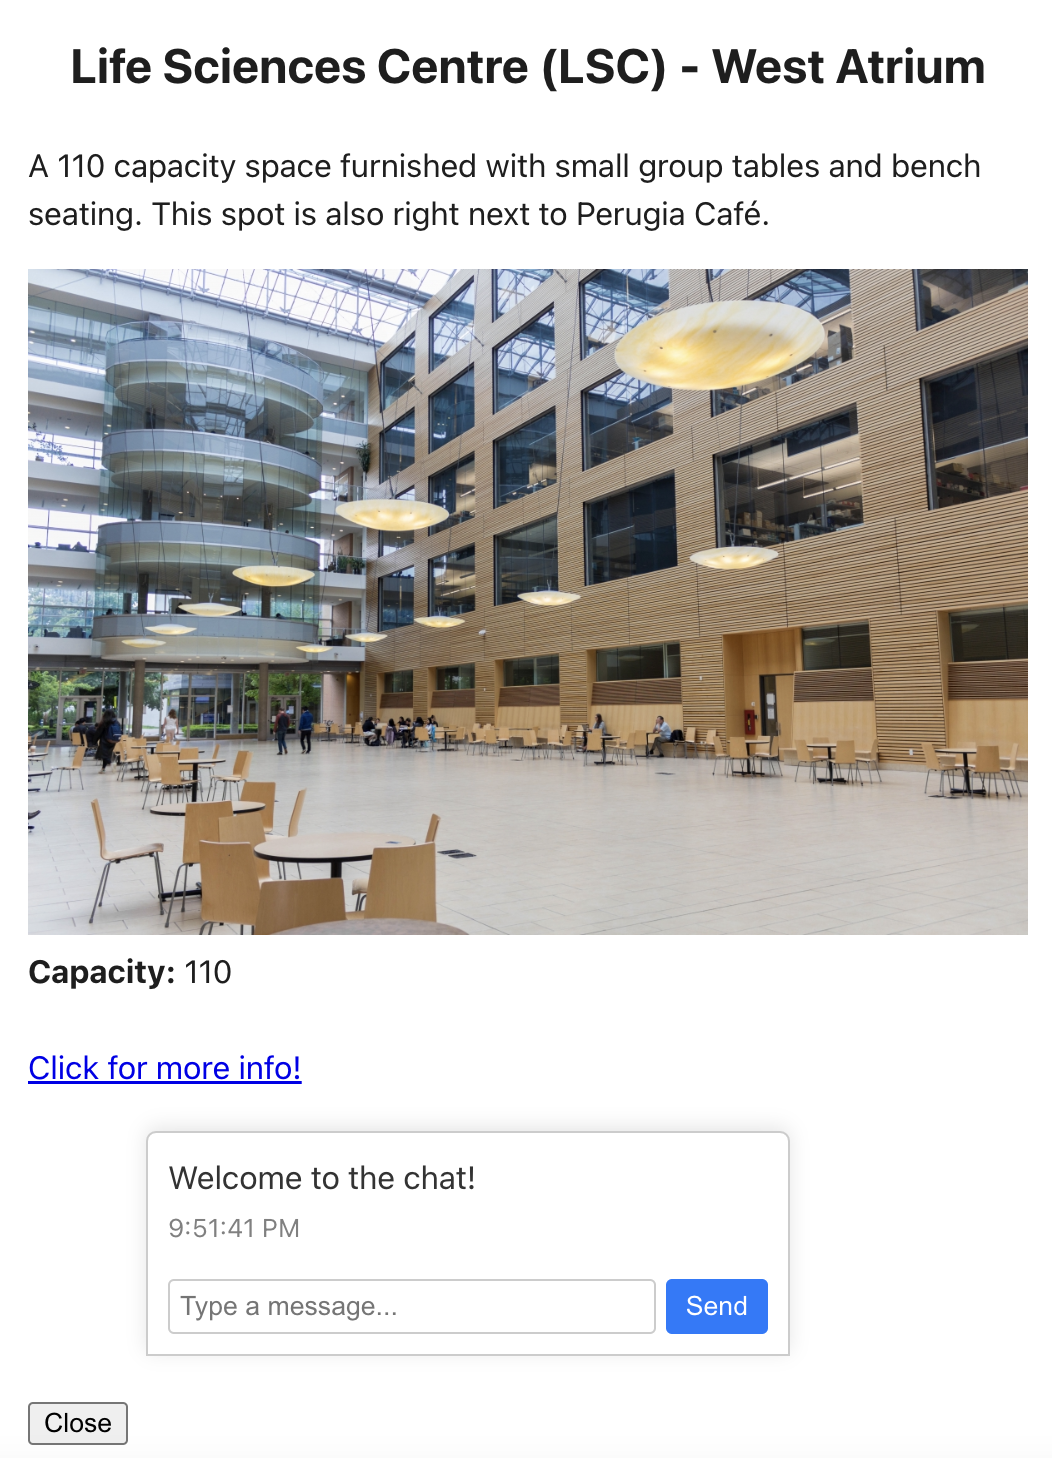
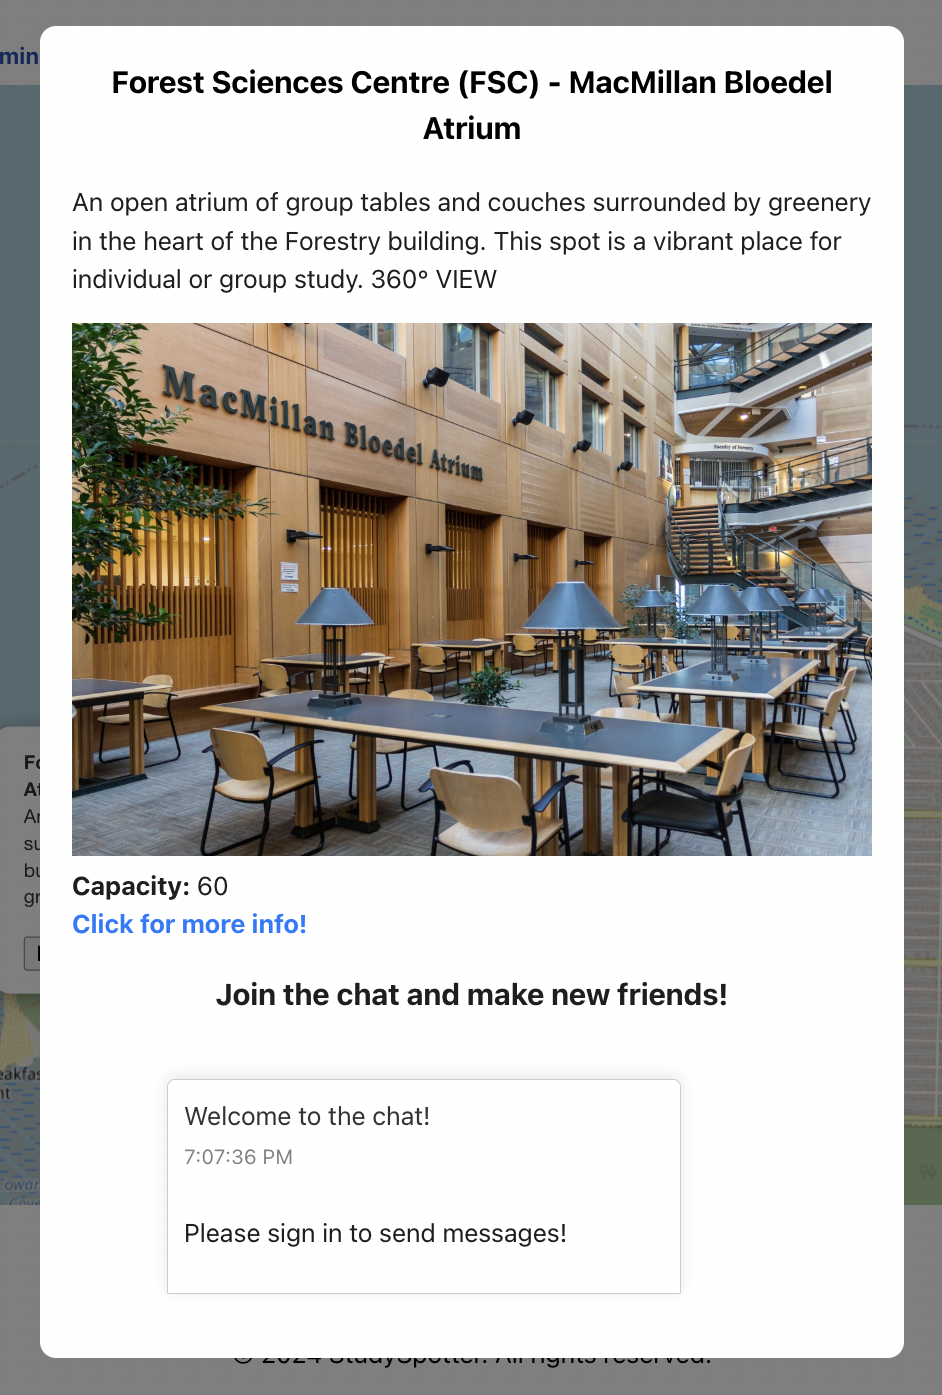
styling + code cleanup

diff --git a/client/src/components/MapInterface.jsx b/client/src/components/MapInterface.jsx
@@ -1,87 +1,3 @@
-// import React, { useState } from 'react';
-// import { MapContainer, TileLayer, Marker, Popup } from 'react-leaflet';
-// import { FaStar, FaRegStar } from 'react-icons/fa';
-// import 'leaflet/dist/leaflet.css';
-// import pins from '../assets/pinData.json';
-// import ChatBox from './Chatbox.jsx';
-// import '../assets/leaflet.fullscreen-3.0.2/Control.FullScreen.css';
-// import '../assets/leaflet.fullscreen-3.0.2/Control.FullScreen.js';
-
-// const MapInterface = () => {
-//     const [detailsVisible, setDetailsVisible] = useState(false);
-//     const [selectedPin, setSelectedPin] = useState(null);
-//     const [favorites, setFavorites] = useState([]);
-//     const [mapCenter] = useState([49.2606, -123.2460]); // Default center
-//     const [mapZoom] = useState(14); // Default zoom
-
-//     const handleMoreDetails = (pin) => {
-//         setSelectedPin(pin);
-//         setDetailsVisible(true);
-//     };
-
-//     const handleCloseDetails = () => {
-//         setDetailsVisible(false);
-//         setSelectedPin(null);
-//     };
-
-//     const toggleFavorite = (pinId) => {
-//         setFavorites(prevFavorites => {
-//             if (prevFavorites.includes(pinId)) {
-//                 return prevFavorites.filter(id => id !== pinId);
-//             } else {
-//                 return [...prevFavorites, pinId];
-//             }
-//         });
-//     };
-
-//     return (
-//         <div className="map-interface">
-//             <div className="map-container">
-//                 <MapContainer
-//                     center={mapCenter}
-//                     zoom={mapZoom}
-//                     style={{ height: "700px", width: "100%" }}
-//                     fullscreenControl={true}
-//                     fullscreenControlOptions={{ position: 'topleft' }}
-//                 >
-//                     <TileLayer
-//                         url="https://{s}.tile.openstreetmap.org/{z}/{x}/{y}.png"
-//                         maxZoom={19}
-//                     />
-//                     {pins.map(pin => (
-//                         <Marker key={pin.id} position={pin.position}>
-//                             <Popup>
-//                                 <div className="popup-content">
-//                                     <b>{pin.title}</b><br />{pin.description}
-//                                     <br></br>
-//                                     <br></br>
-//                                     <button onClick={() => handleMoreDetails(pin)}>More Details</button>
-//                                     {/* <ChatBox /> */}
-//                                     <div className="favorite" onClick={() => toggleFavorite(pin.id)}>
-//                                         {favorites.includes(pin.id) ? <FaStar /> : <FaRegStar />}
-//                                     </div>
-//                                 </div>
-//                             </Popup>
-//                         </Marker>
-//                     ))}
-//                 </MapContainer>
-//             </div>
-//             {detailsVisible && selectedPin && (
-//                 <div className="overlay" onClick={handleCloseDetails}>
-//                     <div className="details-panel" onClick={(e) => e.stopPropagation()}>
-//                         <h2>{selectedPin.title}</h2>
-//                         <p>{selectedPin.description}</p>
-//                         <ChatBox />
-//                         <button onClick={handleCloseDetails}>Close</button>
-//                     </div>
-//                 </div>
-//             )}
-//         </div>
-//     );
-// };
-
-// export default MapInterface;
-
 import React, { useLayoutEffect, useState, useEffect } from "react";
 import {
   MapContainer,
@@ -91,17 +7,11 @@ import {
   Polyline,
   Tooltip,
 } from "react-leaflet";
-import { FaStar, FaRegStar } from "react-icons/fa";
-
-//import 'leaflet/dist/leaflet.css';
-// import pins from '../assets/pinData.json';
 import pins from "../assets/updated-waypoints.json";
-// import ChatBox from './Chatbox.jsx';
 import DetailsPanel from "./DetailsPanel.jsx";
 import DistanceDisplay from "./DistanceDisplay.jsx";
 import { styles } from './DistanceDisplay';
-//import '../assets/leaflet.fullscreen-3.0.2/Control.FullScreen.css';
-//import '../assets/leaflet.fullscreen-3.0.2/Control.FullScreen.js';
+
 
 const MapInterface = () => {
   const [detailsVisible, setDetailsVisible] = useState(false);
@@ -162,16 +72,6 @@ const MapInterface = () => {
     setDistance(null);
     setWalkingTime(null);
   };
-
-  // const toggleFavorite = (pinId) => {
-  //     setFavorites(prevFavorites => {
-  //         if (prevFavorites.includes(pinId)) {
-  //             return prevFavorites.filter(id => id !== pinId);
-  //         } else {
-  //             return [...prevFavorites, pinId];
-  //         }
-  //     });
-  // };
 
   // Filter pins based on search term
   const filteredPins = pins.filter((pin) =>

diff --git a/client/src/pages/About.jsx b/client/src/pages/About.jsx
@@ -1,31 +1,3 @@
-// import React from 'react';
-// import main from '../assets/main.png';
-
-// const About = () => {
-//     return (
-//         <div>
-//             <h1>About UBC StudySpotter</h1>
-//             {/* Add information about the app and how to use it */}
-//             <div className="about">
-//             <p> Welcome to StudySpotter! UBC's hottest study spot finder. StudySpotter is an app that facilitates
-//                 the location and reservation of study spots on campus. Users will be able to view a map, check out amenities, 
-//                 and reserve spaces that will fit their needs.
-
-//                 To get started, select any waypoint on the map. This will tell you basic information about that point.
-//                 Upon selection, a pop-up will appear and display all amenities available at that location along with
-//                 the option to book private rooms via a link.
-//             </p>
-//             </div>
-//             <div className="panel">
-//                 <img src={main} alt="main" style={{ width: '100%', height: 'auto' }} />
-//             </div>
-//             <div className="panel">
-//             </div>
-//         </div>
-//     );
-// };
-
-// export default About;
 import React, { useEffect, useRef } from 'react';
 import main from '../assets/main.png';
 import waypoint from '../assets/waypoint.png';
@@ -64,16 +36,6 @@ const About = () => {
     return (
         <div>
             <h1>About UBC StudySpotter</h1>
-            {/* <div className="about">
-                <p> Welcome to StudySpotter! UBC's hottest study spot finder. StudySpotter is an app that facilitates
-                    the location and reservation of study spots on campus. Users will be able to view a map, check out amenities, 
-                    and reserve spaces that will fit their needs.
-
-                    To get started, select any waypoint on the map. This will tell you basic information about that point.
-                    Upon selection, a pop-up will appear and display all amenities available at that location along with
-                    the option to book private rooms via a link.
-                </p>
-            </div> */}
             <div className="panel" ref={el => panelRefs.current[0] = el}>
                 <h3 className="about-page-text">What is UBC StudySpotter?</h3>  
                 <br></br>

diff --git a/client/src/App.css b/client/src/App.css
@@ -18,6 +18,10 @@
   float: right;
 }
 
+h1 {
+  text-shadow: 1px 1px 1px rgba(0, 0, 0, 0.5);
+}
+
 body {
   background-color: var(--background-light);
   box-sizing: border-box;
@@ -51,7 +55,7 @@ body.dark-mode {
 
 header {
   background-color: var(--header-background-light);
-  height: 20px;
+  height: 25px;
   padding: 20px;
 }
 
@@ -229,13 +233,19 @@ footer {
   height: 10px;
 }
 
+.logo-container {
+  display: flex;
+  justify-content: center; 
+  align-items: center; 
+}
+
 .dark-mode .ubc-logo {
-  margin-left: 400px;
+  margin: auto;
   filter: invert(1);
 }
 
 .ubc-logo {
-  margin-left: 400px;
+  margin: auto;
 }
 
 .content {
@@ -297,19 +307,12 @@ footer {
   margin-top: 0;
 }
 
-/* .favorite {
-  cursor: pointer;
-  margin-top: 10px;
-  color: gold;
-  font-size: 20px;
-  float: right;
-} */
-
 .profile-container {
   max-width: 400px;
   margin: 50px auto;
   padding: 20px;
-  background-color: #f9f9f9;
+  /* background-color: #f9f9f9; */
+  background-color: #002145;
   border-radius: 8px;
   box-shadow: 0 4px 8px rgba(0, 0, 0, 0.1);
   text-align: center;
@@ -317,9 +320,10 @@ footer {
 
 .profile-header {
   font-size: 1.5rem;
-  color: #333;
+  color: #40B4E5;
   text-align: center;
   margin-bottom: 20px;
+  text-shadow: 1px 1px 1px rgba(0, 0, 0, 0.5);
 }
 
 .input-group {
@@ -461,7 +465,8 @@ h3 {
 
 .about-page-text {
   float: inline-start;
-  color: #FF4500;
+  color: #40B4E5;
+  text-shadow: 1px 1px 1px rgba(0, 0, 0, 0.5);
 }
 
 .panel {

diff --git a/server/app.js b/server/app.js
@@ -1,39 +1,3 @@
-// var express = require('express');
-// var path = require('path');
-// var cookieParser = require('cookie-parser');
-// var logger = require('morgan');
-
-// var indexRouter = require('./routes/index');
-// var chatRouter = require('./routes/chatserver');
-// var usersRouter = require('./routes/users');
-
-// var app = express();
-
-// app.use(logger('dev'));
-// app.use(express.json());
-// app.use(express.urlencoded({ extended: false }));
-// app.use(cookieParser());
-// // app.use(express.static(path.join(__dirname, 'public')));
-// app.use(express.static(path.join(__dirname, 'client/dist')));
-
-
-// app.use('/', indexRouter);
-// app.use('/chat', chatRouter);
-// app.use('/users', usersRouter);
-
-// app.get('*', (req, res) => {
-//     res.sendFile(path.join(__dirname, 'client/dist', 'index.html'));
-// });
-
-// // Set the port number
-// var port = process.env.PORT || 3000;
-
-// // Start the server
-// app.listen(port, function() {
-//     console.log(`Server is running on port ${port}`);
-// });
-
-// module.exports = app;
 var express = require('express');
 var path = require('path');
 var cookieParser = require('cookie-parser');

diff --git a/client/src/App.jsx b/client/src/App.jsx
@@ -74,14 +74,15 @@ const App = () => {
             <Router>
                 <header className='title'>
 
-                    {/* <h1 className="typewriter">UBC StudySpotter</h1> */}
+                    <div className="logo-container">
                     <img className="ubc-logo" src={logo} alt="studyspotter" style={{ width: '400px', height: 'auto' }} />
-                    <button className="mode-toggle" onClick={toggleDarkMode}>
-                        {darkMode ? <FiSun /> : <FiMoon />}
-                    </button>
+                    </div>
                 </header>
                 <header className="App-header">
                     <RxHamburgerMenu className='burger' onClick={() => setDisplayNav(!displayNav)} />
+                    <button className="mode-toggle" onClick={toggleDarkMode}>
+                        {darkMode ? <FiSun /> : <FiMoon />}
+                    </button>
                 </header>
                 <NavBar display={displayNav} />
                 <div className={`content ${displayNav ? 'shifted' : ''}`}>

diff --git a/client/src/pages/Profile.jsx b/client/src/pages/Profile.jsx
@@ -3,6 +3,7 @@ import { useSelector } from 'react-redux';
 import '../App.css';
 import GoogleAuth from "../components/GoogleAuth.jsx";
 import ProfileComponent from "../components/ProfileComponent.jsx";
+import ubc from '../assets/ubc-official-logo.png';
 
 const Profile = () => {
   const session = useSelector((state) => state.session.sessionID);
@@ -12,6 +13,8 @@ const Profile = () => {
         <h1>Welcome to UBC StudySpotter!</h1>
         <div className="profile-container">
           {!session && <h3 className="profile-header">Login with your Google Account to get started!</h3>}
+          <img className="ubc" src={ubc} alt="ubc" style={{ width: 'auto', height: '200px' }} />
+          <br />
           <br />
           <ProfileComponent />
           <GoogleAuth />

diff --git a/client/src/components/Register.jsx b/client/src/components/Register.jsx
@@ -2,19 +2,6 @@ import React, { useState } from 'react';
 import axios from 'axios';
 
 const Register = () => {
-    // const [email, setEmail] = useState('');
-    // const [password, setPassword] = useState('');
-    // const [message, setMessage] = useState('');
-
-    // const handleSubmit = async (e) => {
-    //     e.preventDefault();
-    //     try {
-    //         const response = await axios.post('http://localhost:5000/api/register', { email, password });
-    //         setMessage(response.data.message);
-    //     } catch (error) {
-    //         setMessage(error.response.data.message);
-    //     }
-    // };
 
     return (
         <div>

diff --git a/client/src/components/Chatbox.jsx b/client/src/components/Chatbox.jsx
@@ -6,13 +6,6 @@ import { v4 as uuidv4 } from 'uuid';
 import { useSelector } from 'react-redux';
 
 
-
-
-// const socket = io('http://localhost:4000', {
-//     transports: ['websocket', 'polling', 'flashsocket']
-// });
-
-
 {/* stuff marked with "chat-generated" was generated by ChatGTP on June 20st, 2024'
           The prompt used was: how to make a local chatbox in react
          since inital genration has been heavily modified toi fit the needs of the porject*/}

diff --git a/client/src/components/DetailsPanel.jsx b/client/src/components/DetailsPanel.jsx
@@ -6,12 +6,7 @@ const DetailsPanel = ({ pin }) => {
         <div className="details-panel">
             <div className="details-content">
 
-                {/* <h3>{pin.title}</h3>
-                <p>{pin.details}</p> */}
                 <ChatBox pinId={pin.id} />
-                {/* <br></br>
-                <br></br>
-                <button onClick={onClose}>Close</button> */}
           
             </div>
         </div>
